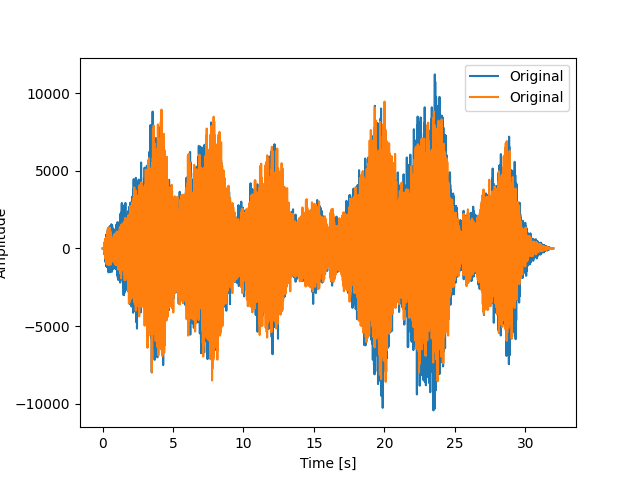
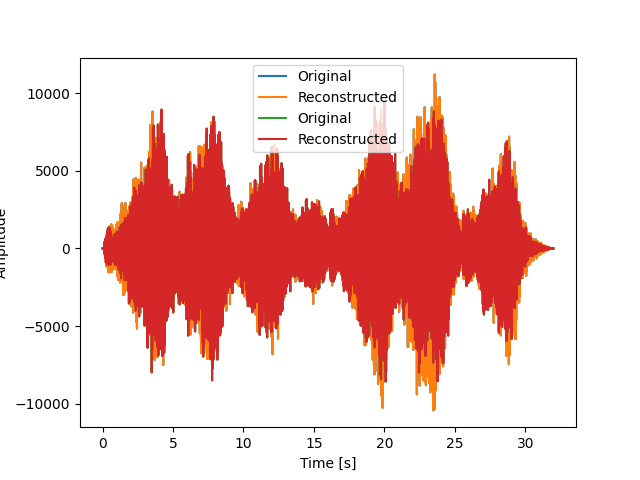
Fixed writing stereo files

Changed region(s): [[0.1562, 0.125, 0.875, 0.8438], [0.7188, 0.125, 0.9062, 0.2188], [0.4062, 0.1562, 0.4375, 0.25]]

diff --git a/tools.py b/tools.py
@@ -31,10 +31,8 @@ def write_audio_file(path, samplerate, transformed_data):
         else:
             left_channel = transformed_data[0]
             right_channel = transformed_data[1]
-            output = []
-            for i in range(len(left_channel)):
-                output.append(np.array(left_channel[i], right_channel[i]))
-            write(path, samplerate, np.array(output))
+            output = np.vstack((left_channel, right_channel)).T
+            write(path, samplerate, output)
 
     except WavFileWarning:
         print("There seems to be a problem reading your WAV file.")
